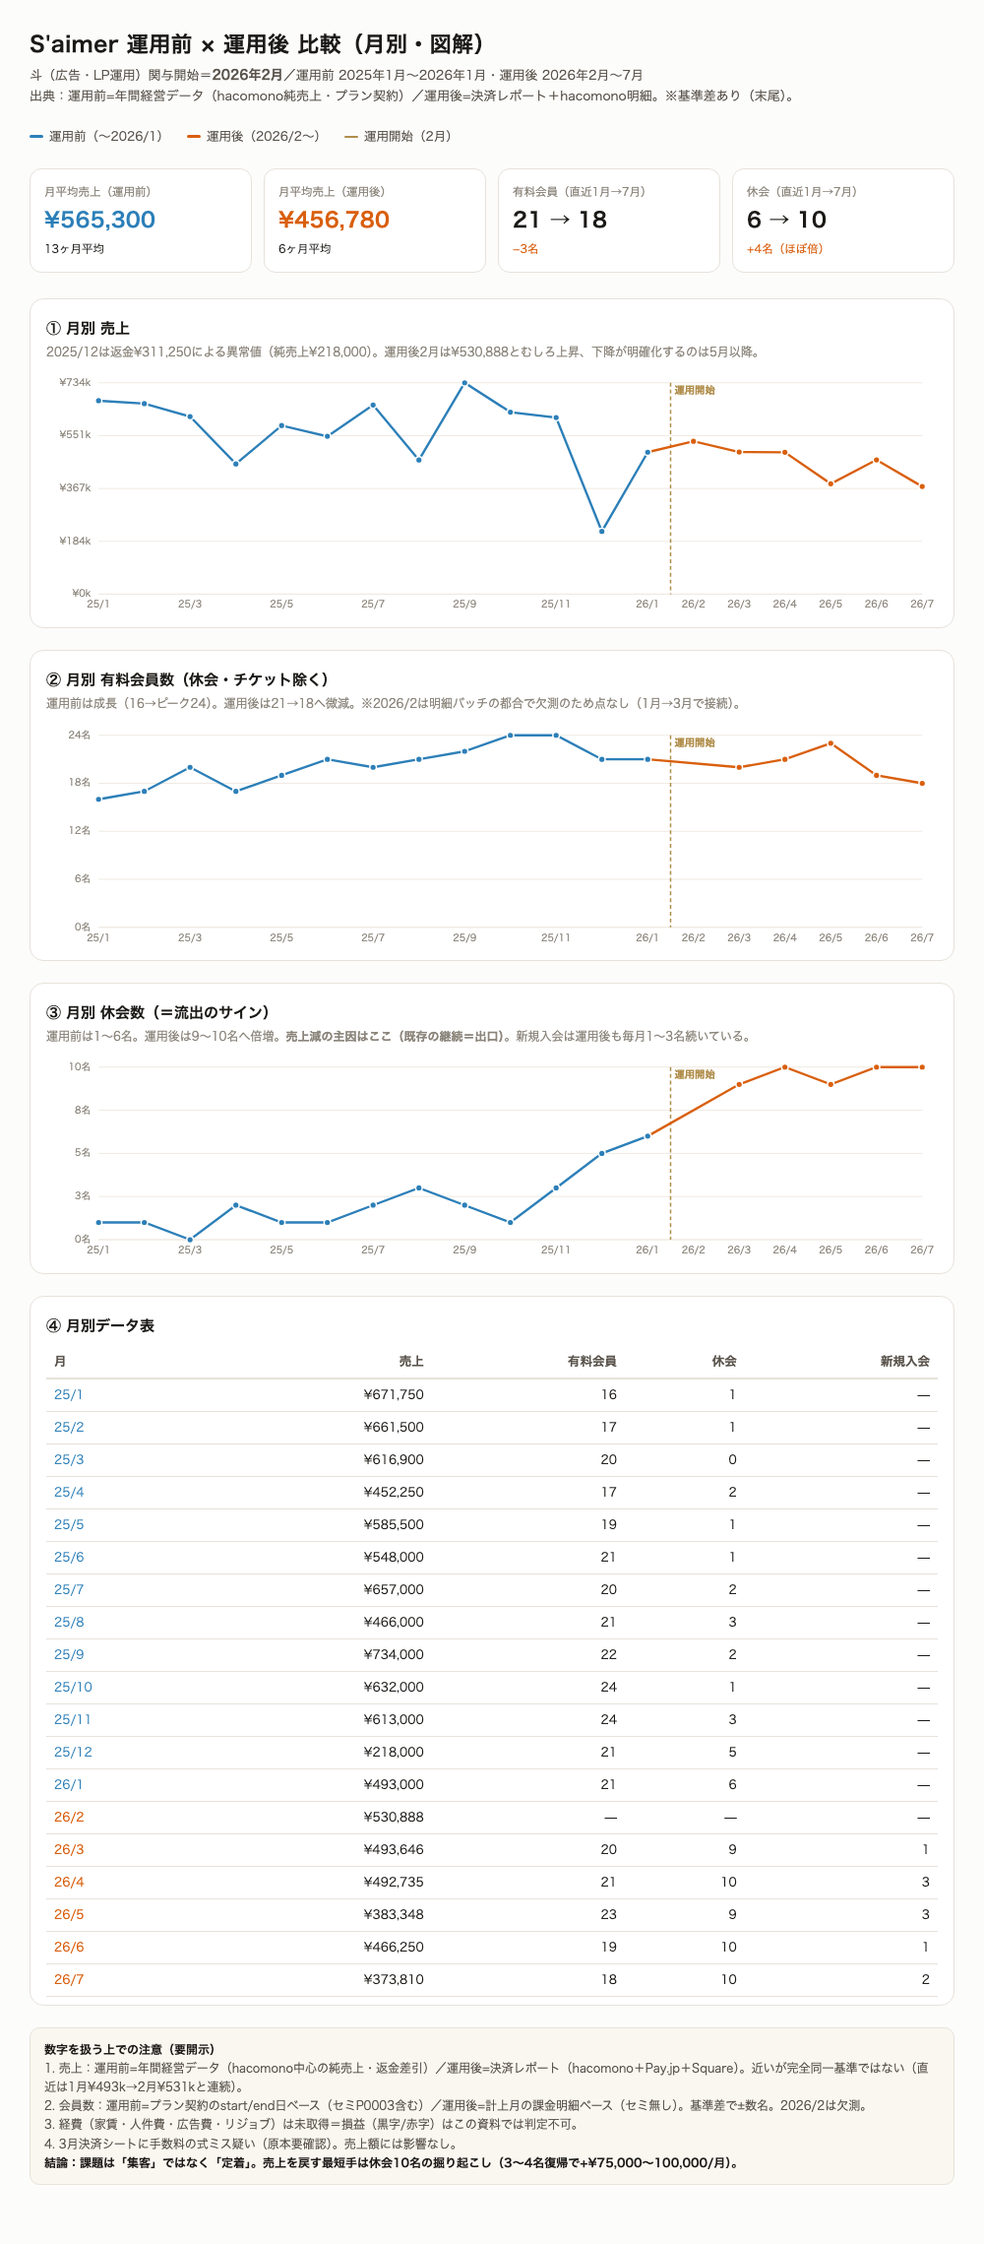
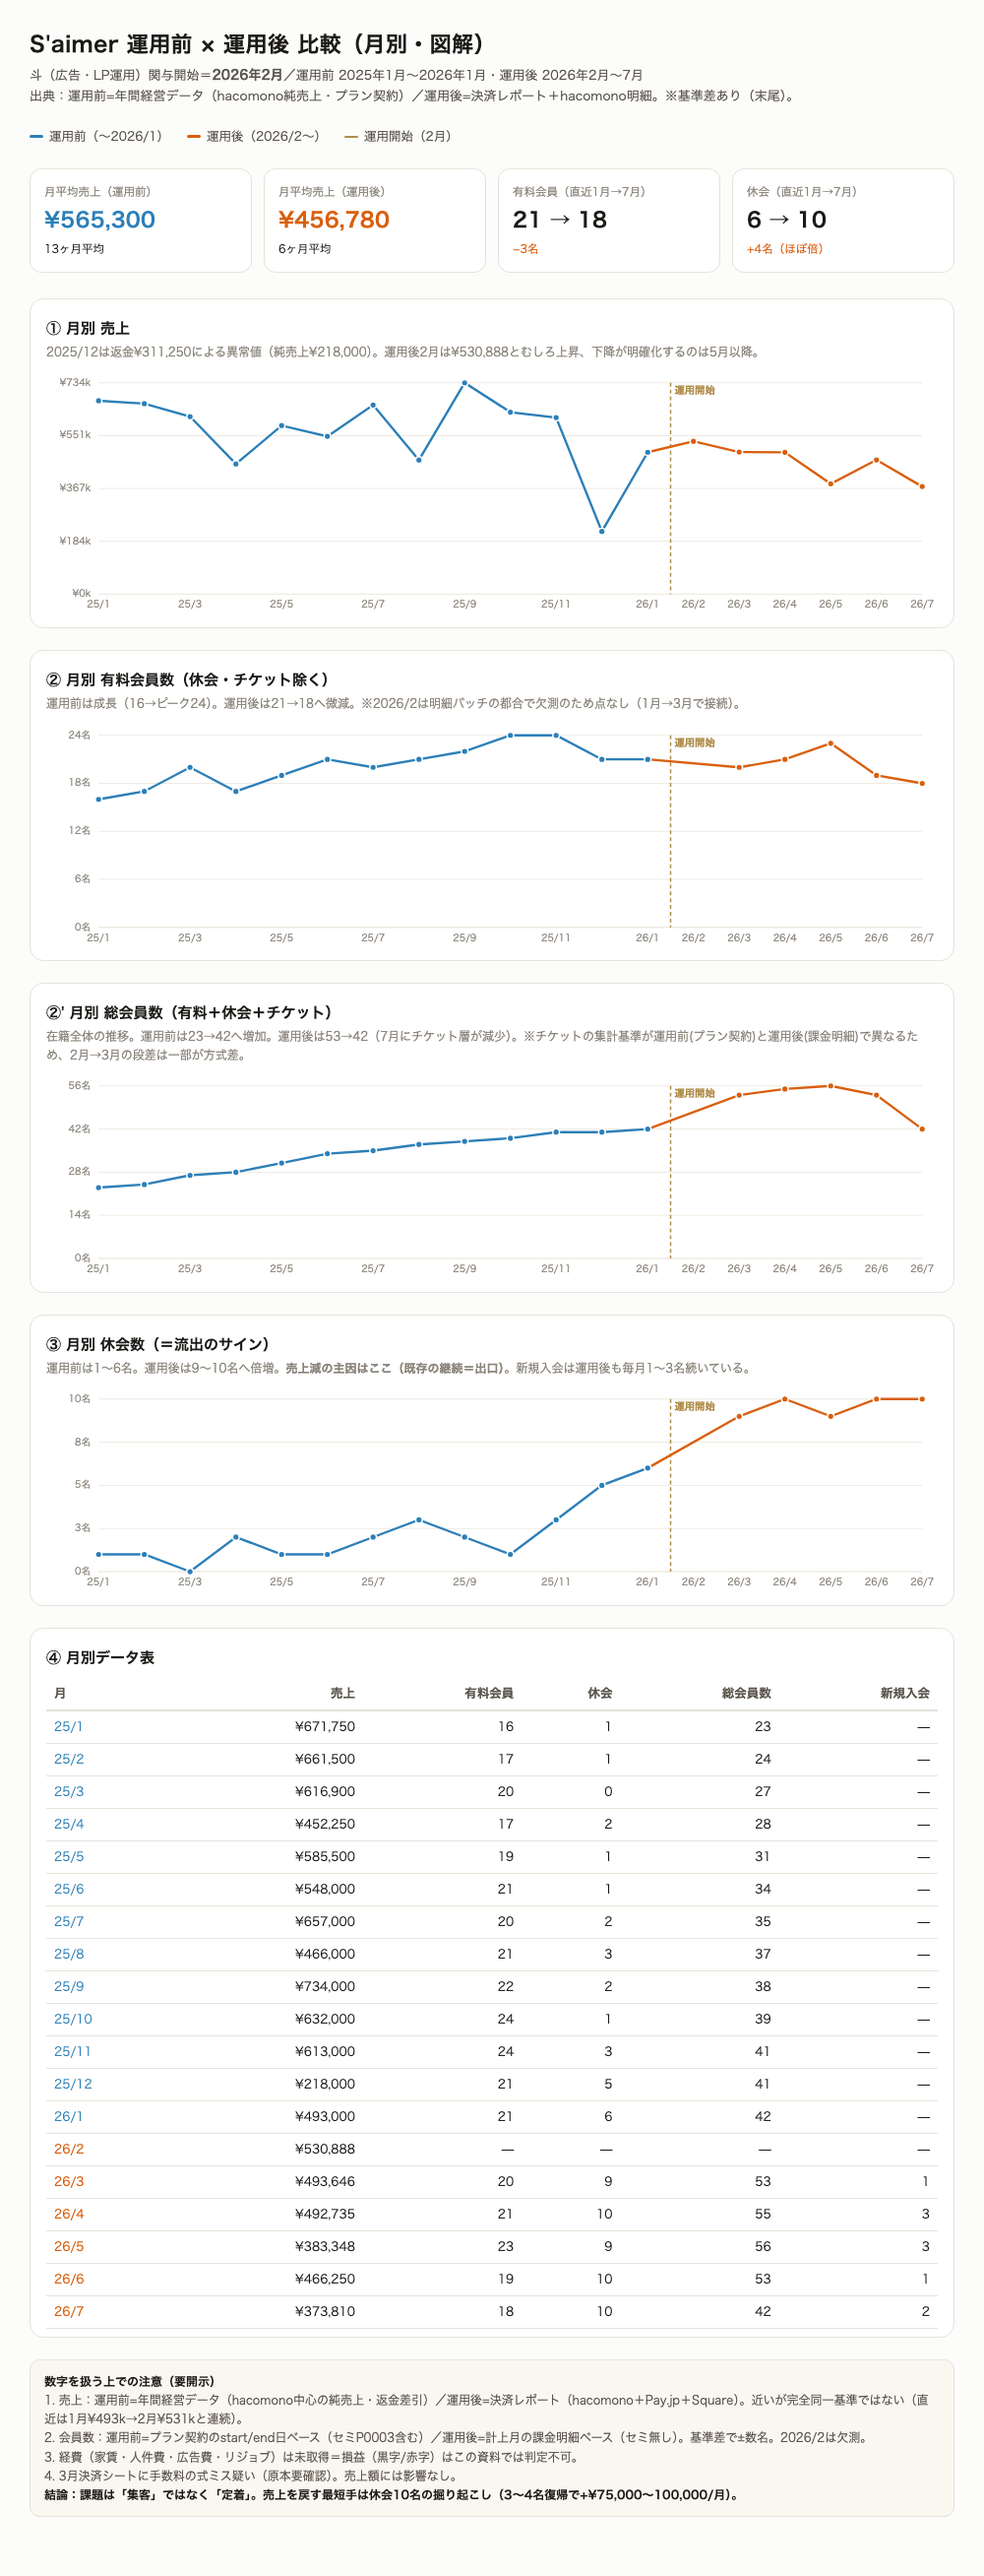
総会員数（有料＋休会＋チケット）の月別チャート＋表列を追加

diff --git a/index.html b/index.html
@@ -80,6 +80,12 @@
   </div>
 
   <div class="card">
+    <h2>②' 月別 総会員数（有料＋休会＋チケット）</h2>
+    <p class="cap">在籍全体の推移。運用前は23→42へ増加。運用後は53→42（7月にチケット層が減少）。※チケットの集計基準が運用前(プラン契約)と運用後(課金明細)で異なるため、2月→3月の段差は一部が方式差。</p>
+    <svg id="c_total" viewBox="0 0 920 220" role="img" aria-label="月別総会員数の推移"></svg>
+  </div>
+
+  <div class="card">
     <h2>③ 月別 休会数（＝流出のサイン）</h2>
     <p class="cap">運用前は1〜6名。運用後は9〜10名へ倍増。<b>売上減の主因はここ（既存の継続＝出口）</b>。新規入会は運用後も毎月1〜3名続いている。</p>
     <svg id="c_kyukai" viewBox="0 0 920 220" role="img" aria-label="月別休会数の推移"></svg>
@@ -89,7 +95,7 @@
     <h2>④ 月別データ表</h2>
     <div class="tbl-scroll">
     <table>
-      <thead><tr><th>月</th><th>売上</th><th>有料会員</th><th>休会</th><th>新規入会</th></tr></thead>
+      <thead><tr><th>月</th><th>売上</th><th>有料会員</th><th>休会</th><th>総会員数</th><th>新規入会</th></tr></thead>
       <tbody id="tbody"></tbody>
     </table>
     </div>
@@ -107,25 +113,25 @@
 
 <script>
 const DATA = [
-  {m:"25/1",  s:671750, p:16, k:1,  n:""},
-  {m:"25/2",  s:661500, p:17, k:1,  n:""},
-  {m:"25/3",  s:616900, p:20, k:0,  n:""},
-  {m:"25/4",  s:452250, p:17, k:2,  n:""},
-  {m:"25/5",  s:585500, p:19, k:1,  n:""},
-  {m:"25/6",  s:548000, p:21, k:1,  n:""},
-  {m:"25/7",  s:657000, p:20, k:2,  n:""},
-  {m:"25/8",  s:466000, p:21, k:3,  n:""},
-  {m:"25/9",  s:734000, p:22, k:2,  n:""},
-  {m:"25/10", s:632000, p:24, k:1,  n:""},
-  {m:"25/11", s:613000, p:24, k:3,  n:""},
-  {m:"25/12", s:218000, p:21, k:5,  n:""},
-  {m:"26/1",  s:493000, p:21, k:6,  n:""},
-  {m:"26/2",  s:530888, p:null,k:null,n:"", after:true},
-  {m:"26/3",  s:493646, p:20, k:9,  n:"1", after:true},
-  {m:"26/4",  s:492735, p:21, k:10, n:"3", after:true},
-  {m:"26/5",  s:383348, p:23, k:9,  n:"3", after:true},
-  {m:"26/6",  s:466250, p:19, k:10, n:"1", after:true},
-  {m:"26/7",  s:373810, p:18, k:10, n:"2", after:true},
+  {m:"25/1",  s:671750, p:16, k:1,  t:23, n:""},
+  {m:"25/2",  s:661500, p:17, k:1,  t:24, n:""},
+  {m:"25/3",  s:616900, p:20, k:0,  t:27, n:""},
+  {m:"25/4",  s:452250, p:17, k:2,  t:28, n:""},
+  {m:"25/5",  s:585500, p:19, k:1,  t:31, n:""},
+  {m:"25/6",  s:548000, p:21, k:1,  t:34, n:""},
+  {m:"25/7",  s:657000, p:20, k:2,  t:35, n:""},
+  {m:"25/8",  s:466000, p:21, k:3,  t:37, n:""},
+  {m:"25/9",  s:734000, p:22, k:2,  t:38, n:""},
+  {m:"25/10", s:632000, p:24, k:1,  t:39, n:""},
+  {m:"25/11", s:613000, p:24, k:3,  t:41, n:""},
+  {m:"25/12", s:218000, p:21, k:5,  t:41, n:""},
+  {m:"26/1",  s:493000, p:21, k:6,  t:42, n:""},
+  {m:"26/2",  s:530888, p:null,k:null,t:null,n:"", after:true},
+  {m:"26/3",  s:493646, p:20, k:9,  t:53, n:"1", after:true},
+  {m:"26/4",  s:492735, p:21, k:10, t:55, n:"3", after:true},
+  {m:"26/5",  s:383348, p:23, k:9,  t:56, n:"3", after:true},
+  {m:"26/6",  s:466250, p:19, k:10, t:53, n:"1", after:true},
+  {m:"26/7",  s:373810, p:18, k:10, t:42, n:"2", after:true},
 ];
 const AFTER_START = 13; // index of 26/2
 const BEFORE="#2C7FB8", AFTER="#D95F0E";
@@ -169,12 +175,13 @@ function draw(id, key, {h, fmt, unit}){
 
 draw("c_sales","s",{h:260, fmt:v=>"¥"+Math.round(v/1000)+"k", unit:""});
 draw("c_paid","p",{h:240, fmt:v=>Math.round(v)+"名", unit:"名"});
+draw("c_total","t",{h:220, fmt:v=>Math.round(v)+"名", unit:"名"});
 draw("c_kyukai","k",{h:220, fmt:v=>Math.round(v)+"名", unit:"名"});
 
 // table
 document.getElementById("tbody").innerHTML = DATA.map(d=>{
   const cls=d.after?"aftercell":"beforecell";
-  return `<tr><td class="${cls}">${d.m}</td><td>${yen(d.s)}</td><td>${d.p??"—"}</td><td>${d.k??"—"}</td><td>${d.n||"—"}</td></tr>`;
+  return `<tr><td class="${cls}">${d.m}</td><td>${yen(d.s)}</td><td>${d.p??"—"}</td><td>${d.k??"—"}</td><td>${d.t??"—"}</td><td>${d.n||"—"}</td></tr>`;
 }).join("");
 </script>
 </body>

diff --git a/運用前後比較_図解_20260825.html b/運用前後比較_図解_20260825.html
@@ -80,6 +80,12 @@
   </div>
 
   <div class="card">
+    <h2>②' 月別 総会員数（有料＋休会＋チケット）</h2>
+    <p class="cap">在籍全体の推移。運用前は23→42へ増加。運用後は53→42（7月にチケット層が減少）。※チケットの集計基準が運用前(プラン契約)と運用後(課金明細)で異なるため、2月→3月の段差は一部が方式差。</p>
+    <svg id="c_total" viewBox="0 0 920 220" role="img" aria-label="月別総会員数の推移"></svg>
+  </div>
+
+  <div class="card">
     <h2>③ 月別 休会数（＝流出のサイン）</h2>
     <p class="cap">運用前は1〜6名。運用後は9〜10名へ倍増。<b>売上減の主因はここ（既存の継続＝出口）</b>。新規入会は運用後も毎月1〜3名続いている。</p>
     <svg id="c_kyukai" viewBox="0 0 920 220" role="img" aria-label="月別休会数の推移"></svg>
@@ -89,7 +95,7 @@
     <h2>④ 月別データ表</h2>
     <div class="tbl-scroll">
     <table>
-      <thead><tr><th>月</th><th>売上</th><th>有料会員</th><th>休会</th><th>新規入会</th></tr></thead>
+      <thead><tr><th>月</th><th>売上</th><th>有料会員</th><th>休会</th><th>総会員数</th><th>新規入会</th></tr></thead>
       <tbody id="tbody"></tbody>
     </table>
     </div>
@@ -107,25 +113,25 @@
 
 <script>
 const DATA = [
-  {m:"25/1",  s:671750, p:16, k:1,  n:""},
-  {m:"25/2",  s:661500, p:17, k:1,  n:""},
-  {m:"25/3",  s:616900, p:20, k:0,  n:""},
-  {m:"25/4",  s:452250, p:17, k:2,  n:""},
-  {m:"25/5",  s:585500, p:19, k:1,  n:""},
-  {m:"25/6",  s:548000, p:21, k:1,  n:""},
-  {m:"25/7",  s:657000, p:20, k:2,  n:""},
-  {m:"25/8",  s:466000, p:21, k:3,  n:""},
-  {m:"25/9",  s:734000, p:22, k:2,  n:""},
-  {m:"25/10", s:632000, p:24, k:1,  n:""},
-  {m:"25/11", s:613000, p:24, k:3,  n:""},
-  {m:"25/12", s:218000, p:21, k:5,  n:""},
-  {m:"26/1",  s:493000, p:21, k:6,  n:""},
-  {m:"26/2",  s:530888, p:null,k:null,n:"", after:true},
-  {m:"26/3",  s:493646, p:20, k:9,  n:"1", after:true},
-  {m:"26/4",  s:492735, p:21, k:10, n:"3", after:true},
-  {m:"26/5",  s:383348, p:23, k:9,  n:"3", after:true},
-  {m:"26/6",  s:466250, p:19, k:10, n:"1", after:true},
-  {m:"26/7",  s:373810, p:18, k:10, n:"2", after:true},
+  {m:"25/1",  s:671750, p:16, k:1,  t:23, n:""},
+  {m:"25/2",  s:661500, p:17, k:1,  t:24, n:""},
+  {m:"25/3",  s:616900, p:20, k:0,  t:27, n:""},
+  {m:"25/4",  s:452250, p:17, k:2,  t:28, n:""},
+  {m:"25/5",  s:585500, p:19, k:1,  t:31, n:""},
+  {m:"25/6",  s:548000, p:21, k:1,  t:34, n:""},
+  {m:"25/7",  s:657000, p:20, k:2,  t:35, n:""},
+  {m:"25/8",  s:466000, p:21, k:3,  t:37, n:""},
+  {m:"25/9",  s:734000, p:22, k:2,  t:38, n:""},
+  {m:"25/10", s:632000, p:24, k:1,  t:39, n:""},
+  {m:"25/11", s:613000, p:24, k:3,  t:41, n:""},
+  {m:"25/12", s:218000, p:21, k:5,  t:41, n:""},
+  {m:"26/1",  s:493000, p:21, k:6,  t:42, n:""},
+  {m:"26/2",  s:530888, p:null,k:null,t:null,n:"", after:true},
+  {m:"26/3",  s:493646, p:20, k:9,  t:53, n:"1", after:true},
+  {m:"26/4",  s:492735, p:21, k:10, t:55, n:"3", after:true},
+  {m:"26/5",  s:383348, p:23, k:9,  t:56, n:"3", after:true},
+  {m:"26/6",  s:466250, p:19, k:10, t:53, n:"1", after:true},
+  {m:"26/7",  s:373810, p:18, k:10, t:42, n:"2", after:true},
 ];
 const AFTER_START = 13; // index of 26/2
 const BEFORE="#2C7FB8", AFTER="#D95F0E";
@@ -169,12 +175,13 @@ function draw(id, key, {h, fmt, unit}){
 
 draw("c_sales","s",{h:260, fmt:v=>"¥"+Math.round(v/1000)+"k", unit:""});
 draw("c_paid","p",{h:240, fmt:v=>Math.round(v)+"名", unit:"名"});
+draw("c_total","t",{h:220, fmt:v=>Math.round(v)+"名", unit:"名"});
 draw("c_kyukai","k",{h:220, fmt:v=>Math.round(v)+"名", unit:"名"});
 
 // table
 document.getElementById("tbody").innerHTML = DATA.map(d=>{
   const cls=d.after?"aftercell":"beforecell";
-  return `<tr><td class="${cls}">${d.m}</td><td>${yen(d.s)}</td><td>${d.p??"—"}</td><td>${d.k??"—"}</td><td>${d.n||"—"}</td></tr>`;
+  return `<tr><td class="${cls}">${d.m}</td><td>${yen(d.s)}</td><td>${d.p??"—"}</td><td>${d.k??"—"}</td><td>${d.t??"—"}</td><td>${d.n||"—"}</td></tr>`;
 }).join("");
 </script>
 </body>
